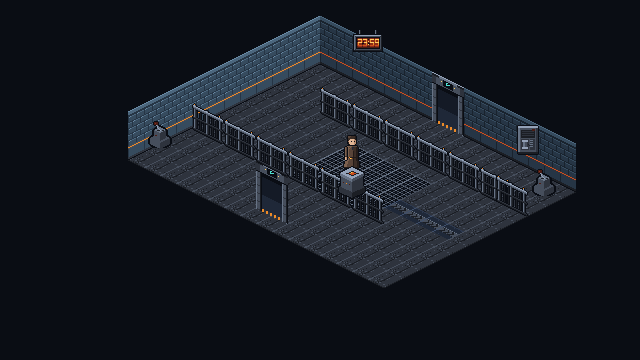
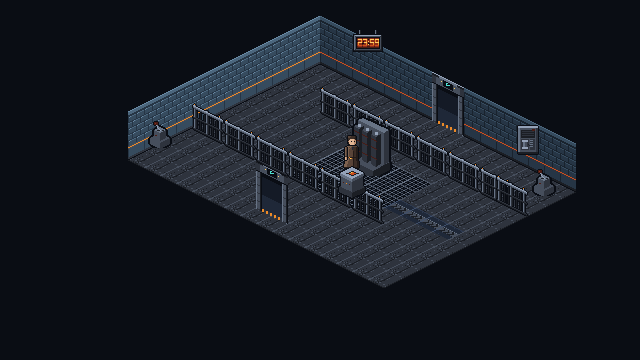
art(TLF-039): Tier 2 partial (turnstile, fire shutter, counterweight gear, surge capacitor, pressure switch), sheet+metadata updated

Changed region(s): [[0.5312, 0.3056, 0.625, 0.4889]]

diff --git a/design/art/ASSET_METADATA.md b/design/art/ASSET_METADATA.md
@@ -231,7 +231,7 @@
 
 ## 3. Batch 2 Summary Inventory Table (`TLF-039`)
 
-**Task:** TLF-039 · **Author:** design-art agent (Claude Code, Sonnet 5.5, standing in for Argon, RISK-019) · **Palette:** `TLF-CH01-32`, `0` off-palette, `0` semi-transparent pixels · **Authoring:** every pixel is placed by a deterministic script using palette indices only, which writes layered `.pxo` files; every `.pxo` passes `Pixelorama.exe --headless --quit -- --size` and `--export --spritesheet`, and each committed PNG is the byte-identical re-export (raw logs in `design/art/TLF-039_VERIFICATION.txt`). **No AI-generated or third-party images.** Elias v2 replaces the batch-1 sheet in place (section 2.1).
+**Task:** TLF-039 · **Author:** design-art agent (Claude Code, Sonnet 5.5, standing in for Argon, RISK-019) · **Palette:** `TLF-CH01-32`, `0` off-palette, `0` semi-transparent pixels · **Authoring:** every pixel is placed by a deterministic script using palette indices only, which writes layered `.pxo` files; every `.pxo` passes `Pixelorama.exe --headless --quit -- --size` and `--export --spritesheet`, and each committed PNG is the byte-identical re-export (raw logs in `design/art/TLF-039_VERIFICATION.txt`). **No AI-generated or third-party images.** Elias v2 replaces the batch-1 sheet in place (section 2.1). Rows 27-38 are Tier 2 hero set-pieces (partial: route board, security gate, bridge, transit car and dispatch terminal are still open).
 
 | # | Asset ID | Category | Source `.pxo` (`assets/source/ch01/`) | Runtime Export (`res://assets/...`) | Canvas Size (`W×H px`) | Frames / FPS | Pivot `(px_x, px_y)` | Sorting / `z_index` | Palette Colors Used | QA State |
 |---|---|---|---|---|---|---|---|---|---|---|
@@ -250,6 +250,18 @@
 | **24** | `ch01.prop.lever_switch.off` | Prop (Fixture) | `ch01_prop_lever_switch_off.pxo` | `assets/props/ch01/ch01_prop_lever_switch_off.png` | `24 × 32 px` | `1f` (`static`) | `(12, 28)` | `Wall_Fixtures` (`z_index = 7`), see OQ-2 | `8 / 32` | **`exported`** |
 | **25** | `ch01.prop.lever_switch.on` | Prop (Fixture) | `ch01_prop_lever_switch_on.pxo` | `assets/props/ch01/ch01_prop_lever_switch_on.png` | `24 × 32 px` | `1f` (`static`) | `(12, 28)` | `Wall_Fixtures` (`z_index = 7`), see OQ-2 | `9 / 32` | **`exported`** |
 | **26** | `ch01.prop.document_clipboard` | Prop (Floor Pickup) | `ch01_prop_document_clipboard_idle.pxo` | `assets/props/ch01/ch01_prop_document_clipboard_idle.png` | `16 × 16 px` | `1f` (`static`) | `(8, 12)` | `YSort_Props` (`z_index = 8`) | `8 / 32` | **`exported`** |
+| **27** | `ch01.prop.turnstile_gate_collapsed` | Prop (Medium Floor Prop) | `ch01_prop_turnstile_gate_collapsed.pxo` | `assets/props/ch01/ch01_prop_turnstile_gate_collapsed.png` | `32 × 40 px` | `1f` (`static`) | `(16, 34)` | `YSort_Actors` (`z_index = 10`) | `8 / 32` | **`exported`** |
+| **28** | `ch01.prop.turnstile_gate_open` | Prop (Medium Floor Prop) | `ch01_prop_turnstile_gate_open.pxo` | `assets/props/ch01/ch01_prop_turnstile_gate_open.png` | `32 × 40 px` | `1f` (`static`) | `(16, 34)` | `YSort_Actors` (`z_index = 10`) | `8 / 32` | **`exported`** |
+| **29** | `ch01.prop.fire_shutter_closed` | Prop (Large Hero Mechanism) | `ch01_prop_fire_shutter_closed.pxo` | `assets/props/ch01/ch01_prop_fire_shutter_closed.png` | `64 × 64 px` | `1f` (`static`) | `(32, 56)` | `YSort_Actors` (`z_index = 10`) | `8 / 32` | **`exported`** |
+| **30** | `ch01.prop.fire_shutter_raised` | Prop (Large Hero Mechanism) | `ch01_prop_fire_shutter_raised.pxo` | `assets/props/ch01/ch01_prop_fire_shutter_raised.png` | `64 × 64 px` | `1f` (`static`) | `(32, 56)` | `YSort_Actors` (`z_index = 10`) | `7 / 32` | **`exported`** |
+| **31** | `ch01.prop.counterweight_gear_idle` | Prop (Large Hero Mechanism) | `ch01_prop_counterweight_gear_idle.pxo` | `assets/props/ch01/ch01_prop_counterweight_gear_idle.png` | `64 × 64 px` | `1f` (`static`) | `(32, 56)` | `YSort_Actors` (`z_index = 10`) | `6 / 32` | **`exported`** |
+| **32** | `ch01.prop.counterweight_gear_slipping` | Prop (Large Hero Mechanism) | `ch01_prop_counterweight_gear_slipping.pxo` | `assets/props/ch01/ch01_prop_counterweight_gear_slipping.png` | `64 × 64 px` | `1f` (`static`) | `(32, 56)` | `YSort_Actors` (`z_index = 10`) | `9 / 32` | **`exported`** |
+| **33** | `ch01.prop.counterweight_gear_frozen` | Prop (Large Hero Mechanism) | `ch01_prop_counterweight_gear_frozen.pxo` | `assets/props/ch01/ch01_prop_counterweight_gear_frozen.png` | `64 × 64 px` | `1f` (`static`) | `(32, 56)` | `YSort_Actors` (`z_index = 10`) | `8 / 32` | **`exported`** |
+| **34** | `ch01.prop.surge_capacitor_discharged` | Prop (Large Hero Mechanism) | `ch01_prop_surge_capacitor_discharged.pxo` | `assets/props/ch01/ch01_prop_surge_capacitor_discharged.png` | `64 × 64 px` | `1f` (`static`) | `(32, 56)` | `YSort_Actors` (`z_index = 10`) | `7 / 32` | **`exported`** |
+| **35** | `ch01.prop.surge_capacitor_charged` | Prop (Large Hero Mechanism) | `ch01_prop_surge_capacitor_charged.pxo` | `assets/props/ch01/ch01_prop_surge_capacitor_charged.png` | `64 × 64 px` | `1f` (`static`) | `(32, 56)` | `YSort_Actors` (`z_index = 10`) | `9 / 32` | **`exported`** |
+| **36** | `ch01.prop.surge_capacitor_frozen` | Prop (Large Hero Mechanism) | `ch01_prop_surge_capacitor_frozen.pxo` | `assets/props/ch01/ch01_prop_surge_capacitor_frozen.png` | `64 × 64 px` | `1f` (`static`) | `(32, 56)` | `YSort_Actors` (`z_index = 10`) | `8 / 32` | **`exported`** |
+| **37** | `ch01.prop.pressure_switch_released` | Prop (Floor Plate) | `ch01_prop_pressure_switch_released.pxo` | `assets/props/ch01/ch01_prop_pressure_switch_released.png` | `32 × 20 px` | `1f` (`static`) | `(16, 12)` | `YSort_Props` (`z_index = 8`) | `5 / 32` | **`exported`** |
+| **38** | `ch01.prop.pressure_switch_pressed` | Prop (Floor Plate) | `ch01_prop_pressure_switch_pressed.pxo` | `assets/props/ch01/ch01_prop_pressure_switch_pressed.png` | `32 × 20 px` | `1f` (`static`) | `(16, 12)` | `YSort_Props` (`z_index = 8`) | `7 / 32` | **`exported`** |
 
 ---
 
@@ -347,6 +359,78 @@ Common to all entries: **License / Attribution:** original production art by the
 - **Frames / FPS / tags:** `1` frame, static, no tags · **Palette:** `TLF-CH01-32`, indices `00,11,12,13,14,15,25,31`
 - **Source / export:** `assets/source/ch01/ch01_prop_document_clipboard_idle.pxo` → `assets/props/ch01/ch01_prop_document_clipboard_idle.png`
 
+### `ch01.prop.turnstile_gate_collapsed`
+- **Filename:** `ch01_prop_turnstile_gate_collapsed.pxo` / `ch01_prop_turnstile_gate_collapsed.png` · **Category / use:** Prop (Medium Floor Prop) · Room 2 `turnstile_gate`, arm snapped, lamp dead (Tier 2)
+- **Pixel dimensions:** `32 × 40 px` (`1.0×`) · **Pivot / sorting:** `(16, 34)` · `YSort_Actors` (`z_index = 10`)
+- **Frames / FPS / tags:** `1` frame, static, no tags · **Palette:** `TLF-CH01-32`, indices `00,11,12,13,14,15,22,24`
+- **Source / export:** `assets/source/ch01/ch01_prop_turnstile_gate_collapsed.pxo` → `assets/props/ch01/ch01_prop_turnstile_gate_collapsed.png`
+
+### `ch01.prop.turnstile_gate_open`
+- **Filename:** `ch01_prop_turnstile_gate_open.pxo` / `ch01_prop_turnstile_gate_open.png` · **Category / use:** Prop (Medium Floor Prop) · arm folded up, lamp lit (Tier 2)
+- **Pixel dimensions:** `32 × 40 px` (`1.0×`) · **Pivot / sorting:** `(16, 34)` · `YSort_Actors` (`z_index = 10`)
+- **Frames / FPS / tags:** `1` frame, static, no tags · **Palette:** `TLF-CH01-32`, indices `00,11,12,13,14,15,25,26`
+- **Source / export:** `assets/source/ch01/ch01_prop_turnstile_gate_open.pxo` → `assets/props/ch01/ch01_prop_turnstile_gate_open.png`
+
+### `ch01.prop.fire_shutter_closed`
+- **Filename:** `ch01_prop_fire_shutter_closed.pxo` / `ch01_prop_fire_shutter_closed.png` · **Category / use:** Prop (Large Hero Mechanism) · Room 3 `fire_shutter`; spans 2 tiles on the +x axis; slats down (Tier 2)
+- **Pixel dimensions:** `64 × 64 px` (`1.0×`) · **Pivot / sorting:** `(32, 56)` · `YSort_Actors` (`z_index = 10`)
+- **Frames / FPS / tags:** `1` frame, static, no tags · **Palette:** `TLF-CH01-32`, indices `00,11,12,13,14,15,24,25`
+- **Source / export:** `assets/source/ch01/ch01_prop_fire_shutter_closed.pxo` → `assets/props/ch01/ch01_prop_fire_shutter_closed.png`
+
+### `ch01.prop.fire_shutter_raised`
+- **Filename:** `ch01_prop_fire_shutter_raised.pxo` / `ch01_prop_fire_shutter_raised.png` · **Category / use:** Prop (Large Hero Mechanism) · slats rolled into the housing, opening clear (Tier 2)
+- **Pixel dimensions:** `64 × 64 px` (`1.0×`) · **Pivot / sorting:** `(32, 56)` · `YSort_Actors` (`z_index = 10`)
+- **Frames / FPS / tags:** `1` frame, static, no tags · **Palette:** `TLF-CH01-32`, indices `00,11,12,13,14,15,24`
+- **Source / export:** `assets/source/ch01/ch01_prop_fire_shutter_raised.pxo` → `assets/props/ch01/ch01_prop_fire_shutter_raised.png`
+
+### `ch01.prop.counterweight_gear_idle`
+- **Filename:** `ch01_prop_counterweight_gear_idle.pxo` / `ch01_prop_counterweight_gear_idle.png` · **Category / use:** Prop (Large Hero Mechanism) · Room 3 `counterweight_gear` (Tier 2)
+- **Pixel dimensions:** `64 × 64 px` (`1.0×`) · **Pivot / sorting:** `(32, 56)` · `YSort_Actors` (`z_index = 10`)
+- **Frames / FPS / tags:** `1` frame, static, no tags · **Palette:** `TLF-CH01-32`, indices `00,11,12,13,14,15`
+- **Source / export:** `assets/source/ch01/ch01_prop_counterweight_gear_idle.pxo` → `assets/props/ch01/ch01_prop_counterweight_gear_idle.png`
+
+### `ch01.prop.counterweight_gear_slipping`
+- **Filename:** `ch01_prop_counterweight_gear_slipping.pxo` / `ch01_prop_counterweight_gear_slipping.png` · **Category / use:** Prop (Large Hero Mechanism) · weight lowered 6 px, sparks + slip marks (Tier 2)
+- **Pixel dimensions:** `64 × 64 px` (`1.0×`) · **Pivot / sorting:** `(32, 56)` · `YSort_Actors` (`z_index = 10`)
+- **Frames / FPS / tags:** `1` frame, static, no tags · **Palette:** `TLF-CH01-32`, indices `00,11,12,13,14,15,24,25,26`
+- **Source / export:** `assets/source/ch01/ch01_prop_counterweight_gear_slipping.pxo` → `assets/props/ch01/ch01_prop_counterweight_gear_slipping.png`
+
+### `ch01.prop.counterweight_gear_frozen`
+- **Filename:** `ch01_prop_counterweight_gear_frozen.pxo` / `ch01_prop_counterweight_gear_frozen.png` · **Category / use:** Prop (Large Hero Mechanism) · Freeze language: 2 px corner L-brackets + teal dashes, no motion (Tier 2)
+- **Pixel dimensions:** `64 × 64 px` (`1.0×`) · **Pivot / sorting:** `(32, 56)` · `YSort_Actors` (`z_index = 10`)
+- **Frames / FPS / tags:** `1` frame, static, no tags · **Palette:** `TLF-CH01-32`, indices `00,11,12,13,14,15,27,31`
+- **Source / export:** `assets/source/ch01/ch01_prop_counterweight_gear_frozen.pxo` → `assets/props/ch01/ch01_prop_counterweight_gear_frozen.png`
+
+### `ch01.prop.surge_capacitor_discharged`
+- **Filename:** `ch01_prop_surge_capacitor_discharged.pxo` / `ch01_prop_surge_capacitor_discharged.png` · **Category / use:** Prop (Large Hero Mechanism) · Room 6 `surge_capacitor` (Tier 2)
+- **Pixel dimensions:** `64 × 64 px` (`1.0×`) · **Pivot / sorting:** `(32, 56)` · `YSort_Actors` (`z_index = 10`)
+- **Frames / FPS / tags:** `1` frame, static, no tags · **Palette:** `TLF-CH01-32`, indices `00,11,12,13,14,15,22`
+- **Source / export:** `assets/source/ch01/ch01_prop_surge_capacitor_discharged.pxo` → `assets/props/ch01/ch01_prop_surge_capacitor_discharged.png`
+
+### `ch01.prop.surge_capacitor_charged`
+- **Filename:** `ch01_prop_surge_capacitor_charged.pxo` / `ch01_prop_surge_capacitor_charged.png` · **Category / use:** Prop (Large Hero Mechanism) · lit bands + jagged arc between terminals (shape cue) (Tier 2)
+- **Pixel dimensions:** `64 × 64 px` (`1.0×`) · **Pivot / sorting:** `(32, 56)` · `YSort_Actors` (`z_index = 10`)
+- **Frames / FPS / tags:** `1` frame, static, no tags · **Palette:** `TLF-CH01-32`, indices `00,11,12,13,14,15,25,26,31`
+- **Source / export:** `assets/source/ch01/ch01_prop_surge_capacitor_charged.pxo` → `assets/props/ch01/ch01_prop_surge_capacitor_charged.png`
+
+### `ch01.prop.surge_capacitor_frozen`
+- **Filename:** `ch01_prop_surge_capacitor_frozen.pxo` / `ch01_prop_surge_capacitor_frozen.png` · **Category / use:** Prop (Large Hero Mechanism) · Freeze language (Tier 2)
+- **Pixel dimensions:** `64 × 64 px` (`1.0×`) · **Pivot / sorting:** `(32, 56)` · `YSort_Actors` (`z_index = 10`)
+- **Frames / FPS / tags:** `1` frame, static, no tags · **Palette:** `TLF-CH01-32`, indices `00,11,12,13,14,15,27,31`
+- **Source / export:** `assets/source/ch01/ch01_prop_surge_capacitor_frozen.pxo` → `assets/props/ch01/ch01_prop_surge_capacitor_frozen.png`
+
+### `ch01.prop.pressure_switch_released`
+- **Filename:** `ch01_prop_pressure_switch_released.pxo` / `ch01_prop_pressure_switch_released.png` · **Category / use:** Prop (Floor Plate) · Room 4 `pressure_switch_01`; raised plate, dead lamp (Tier 2)
+- **Pixel dimensions:** `32 × 20 px` (`1.0×`) · **Pivot / sorting:** `(16, 12)` · `YSort_Props` (`z_index = 8`)
+- **Frames / FPS / tags:** `1` frame, static, no tags · **Palette:** `TLF-CH01-32`, indices `00,12,13,14,22`
+- **Source / export:** `assets/source/ch01/ch01_prop_pressure_switch_released.pxo` → `assets/props/ch01/ch01_prop_pressure_switch_released.png`
+
+### `ch01.prop.pressure_switch_pressed`
+- **Filename:** `ch01_prop_pressure_switch_pressed.pxo` / `ch01_prop_pressure_switch_pressed.png` · **Category / use:** Prop (Floor Plate) · flush plate, lit amber ring (Tier 2)
+- **Pixel dimensions:** `32 × 20 px` (`1.0×`) · **Pivot / sorting:** `(16, 12)` · `YSort_Props` (`z_index = 8`)
+- **Frames / FPS / tags:** `1` frame, static, no tags · **Palette:** `TLF-CH01-32`, indices `00,11,12,13,24,25,26`
+- **Source / export:** `assets/source/ch01/ch01_prop_pressure_switch_pressed.pxo` → `assets/props/ch01/ch01_prop_pressure_switch_pressed.png`
+
 ### 4.1 Archway reconciliation (`archway_frame_e` vs `ROOM_GRAPH.md` §7.1)
 `ROOM_GRAPH` §7.1 names `wall_archway_frame_n` and `wall_archway_frame_w`; batch 1 shipped one file named `archway_frame_e`. Geometry decides the mapping, not the compass letter: E and W boundary edges both run *down-left* on screen, N and S edges both run *down-right* (`px_x = 320 + (x-y)*16`). So:
 
@@ -360,7 +444,7 @@ Common to all entries: **License / Attribution:** original production art by the
 ### 4.2 `flip_h` rule for axis-run assets
 `wall_railing_iron`, `prop_station_bench` and `tile_cable_conduit_*` are authored along the down-right (+x) axis. For the down-left (+y) axis set `flip_h = true`; the baked top-left light then falls on the screen-right side, the same compromise the bible accepts for Elias (§2.3 #4).
 
-### 4.3 Room mockups (`concept`, `640 × 360 px`, kit pieces only; not runtime assets)
+### 4.3 Room mockups (`concept`, `640 × 360 px`; kit + Tier 2 pieces, not runtime assets)
 
 | # | Mockup | File | Canvas Size | QA State |
 |---|---|---|---|---|
@@ -368,4 +452,4 @@ Common to all entries: **License / Attribution:** original production art by the
 | M2 | `ch01.concourse_west` | `design/art/mockups/ch01_concourse_west_mockup.png` | `640 × 360 px` | **`concept`** |
 | M3 | `ch01.signal_control` | `design/art/mockups/ch01_signal_control_mockup.png` | `640 × 360 px` | **`concept`** |
 
-Composited by script from the committed kit PNGs at the positions in `CH01_PLACEMENT_SHEET.md` (palette `TLF-CH01-32` only, background `#0A0D14`, Elias `idle_se` frame 2 at the safe anchor). No `.pxo` (derived images; regenerate from the sheet data).
+Composited by script from the committed PNGs at the positions in `CH01_PLACEMENT_SHEET.md` (palette `TLF-CH01-32` only, background `#0A0D14`, Elias `idle_se` frame 2 at the safe anchor; Tier 2 pieces shown in their default state). No `.pxo` (derived images).

diff --git a/design/art/CH01_PLACEMENT_SHEET.md b/design/art/CH01_PLACEMENT_SHEET.md
@@ -2,7 +2,7 @@
 
 **Author:** design-art agent (Claude Code, Sonnet 5.5, standing in for Argon) · **Audience:** Flash (integration task, `TLF-018`/follow-up) · **Inputs:** `design/ch01/ROOM_GRAPH.md` §1/§5/§7, `design/art/ART_BIBLE.md`, `design/art/ASSET_METADATA.md`, and the greybox `scenes/chapters/ch01/rooms/*.tscn` (read-only; every node position below is copied from those files by script, not typed).
 
-**Scope of this sheet:** every Tier 1 kit piece (shipped in this batch) is placed room by room. Tier 2 hero set-pieces are listed with their planned file names so this sheet does not need to change when they land (§12). Pieces marked *(decor)* are optional dressing with no `.tscn` node yet.
+**Scope of this sheet:** every Tier 1 kit piece (shipped in this batch) is placed room by room. Five Tier 2 hero set-pieces are also placed (§12); the rest keep the greybox until TLF-040. Pieces marked *(decor)* are optional dressing with no `.tscn` node yet.
 
 Mockups (`640×360`, true scale, kit pieces only): `design/art/mockups/ch01_arrival_platform_mockup.png` (validation against the approved target sheet), `ch01_concourse_west_mockup.png`, `ch01_signal_control_mockup.png`.
 
@@ -133,7 +133,7 @@ Footprint 16×12 tiles · apex `(320, 64)` · scene `scenes/chapters/ch01/rooms/
 ### 2.4 Props, fixtures and state mapping
 | Object ID | Sprite (file) | State → sprite state | Pivot position | Layer / `z` | Replaces greybox | Note |
 |---|---|---|---|---|---|---|
-| `ch01.concourse_west.turnstile_gate` | *(none in this batch)* | collapsed / open | `(272, 120)` | - | none | Tier 2 `prop_turnstile_gate`; replaces nothing visual (Area2D + `Blocker`); sprite child at (0,0) |
+| `ch01.concourse_west.turnstile_gate` | `ch01_prop_turnstile_gate_collapsed.png` / `ch01_prop_turnstile_gate_open.png` | collapsed / open | `(272, 120)` ((2, 5)) | YSort_Actors / 10 | none | `prop_turnstile_gate` (Tier 2, delivered); pedestal footprint centred on the node; Area2D + `Blocker` stay |
 | `ch01.concourse_west.support_pillar_01` | `ch01_env_wall_corner_pillar_idle.png` | idle | `(384, 184)` (node `(384, 176)` + `(0, 8)`) | YSort_Walls / 5 | none (collision already in `PillarCollision`) | free-standing column; **sprite pivot = node position + (0, 8)** so the 0.75-tile footprint centres on the cell |
 | `ch01.concourse_west.reset_anchor_01` | `ch01_prop_reset_console_idle.png` | idle | `(256, 144)` ((3, 7)) | YSort_Actors / 10 | none | sole state; the `[E]` prompt provides feedback |
 | `ch01.concourse_west.call_box_09` | `ch01_prop_call_box_phone_idle.png` (+ `_ringing`) | idle -> ringing during Beat 03 call | `(272, 74)` (mount; node stays `(272, 96)`) | Wall_Fixtures / 7 | none | wall fixture on the W wall: module `j = 1` (y 2..3), mount offset (0, -14) |
@@ -164,8 +164,8 @@ Footprint 14×10 tiles · apex `(320, 64)` · scene `scenes/chapters/ch01/rooms/
 ### 3.4 Props, fixtures and state mapping
 | Object ID | Sprite (file) | State → sprite state | Pivot position | Layer / `z` | Replaces greybox | Note |
 |---|---|---|---|---|---|---|
-| `ch01.maintenance_bay.fire_shutter` | *(none in this batch)* | closed / raised | `(384, 160)` | - | none | Tier 2 `prop_fire_shutter` (64×64) |
-| `ch01.maintenance_bay.counterweight_gear` | *(none in this batch)* | idle / slipping / frozen | `(384, 112)` | - | none | Tier 2 `prop_counterweight_gear` |
+| `ch01.maintenance_bay.fire_shutter` | `ch01_prop_fire_shutter_closed.png` / `ch01_prop_fire_shutter_raised.png` | closed / raised | `(384, 160)` ((8, 4)) | YSort_Actors / 10 | none | Tier 2 `prop_fire_shutter` (64×64) |
+| `ch01.maintenance_bay.counterweight_gear` | `ch01_prop_counterweight_gear_idle.png` / `ch01_prop_counterweight_gear_slipping.png` / `ch01_prop_counterweight_gear_frozen.png` | idle / slipping / frozen | `(384, 112)` ((5, 1)) | YSort_Actors / 10 | none | Tier 2 `prop_counterweight_gear` |
 | `ch01.maintenance_bay.reset_anchor_01` | `ch01_prop_reset_console_idle.png` | idle | `(288, 144)` ((4, 6)) | YSort_Actors / 10 | none |  |
 | `ch01.maintenance_bay.doc_tech_log` | `ch01_prop_document_clipboard_idle.png` | idle | `(288, 192)` ((7, 9)) | YSort_Props / 8 | none | workbench pickup |
 
@@ -197,7 +197,7 @@ Footprint 16×12 tiles · apex `(320, 64)` · scene `scenes/chapters/ch01/rooms/
 ### 4.4 Props, fixtures and state mapping
 | Object ID | Sprite (file) | State → sprite state | Pivot position | Layer / `z` | Replaces greybox | Note |
 |---|---|---|---|---|---|---|
-| `ch01.security_crossing.pressure_switch_01` | *(none in this batch)* | released / pressed | `(256, 176)` | - | none | Tier 2 `prop_pressure_switch` |
+| `ch01.security_crossing.pressure_switch_01` | `ch01_prop_pressure_switch_released.png` / `ch01_prop_pressure_switch_pressed.png` | released / pressed | `(256, 176)` ((5, 9)) | YSort_Props / 8 | none | Tier 2 `prop_pressure_switch` |
 | `ch01.security_crossing.security_gate_01` | *(none in this batch)* | closed / open | `(416, 176)` | - | none | Tier 2 `prop_security_gate` |
 | `ch01.security_crossing.bridge_platform_01` | *(none in this batch)* | retracted / extended | `(368, 184)` | - | `TrenchVisual` stays as the void backing | Tier 2 `prop_bridge_platform`; spans trench tile `(9,6)` |
 | `ch01.security_crossing.transit_pass_pickup` | `ch01_prop_document_clipboard_idle.png` | idle | `(336, 104)` ((3, 2)) | YSort_Props / 8 | none | security desk pickup (progression) |
@@ -258,7 +258,7 @@ Footprint 16×12 tiles · apex `(320, 64)` · scene `scenes/chapters/ch01/rooms/
 ### 6.4 Props, fixtures and state mapping
 | Object ID | Sprite (file) | State → sprite state | Pivot position | Layer / `z` | Replaces greybox | Note |
 |---|---|---|---|---|---|---|
-| `ch01.signal_control.surge_capacitor` | *(none in this batch)* | discharged / charged / frozen | `(368, 168)` | - | none | Tier 2 `prop_surge_capacitor` (64×64) |
+| `ch01.signal_control.surge_capacitor` | `ch01_prop_surge_capacitor_discharged.png` / `ch01_prop_surge_capacitor_charged.png` / `ch01_prop_surge_capacitor_frozen.png` | discharged / charged / frozen | `(368, 168)` ((8, 5)) | YSort_Actors / 10 | none | Tier 2 `prop_surge_capacitor` (64×64) |
 | `ch01.signal_control.breaker_a` | `ch01_prop_lever_switch_off.png` (+ `_on`) | off -> on when pulled | `(160, 144)` ((0, 10)) | Wall_Fixtures / 7 | none | on the SW wall; diegetic badge `A` is a 3×3 px stamp (OQ-3) |
 | `ch01.signal_control.breaker_b` | `ch01_prop_lever_switch_off.png` (+ `_on`) | off -> on when pulled | `(544, 192)` ((15, 1)) | Wall_Fixtures / 7 | none | on the NE wall; badge `B` |
 | `ch01.signal_control.intercom` | `ch01_prop_call_box_phone_idle.png` | idle | `(528, 154)` (mount; node stays `(352, 160)`) | Wall_Fixtures / 7 | none | Operator intercom (shares `prop_call_box_phone`); node sits at the capacitor lane, so the sprite mounts on the N wall, module `k = 6`, offset (0, -14) (OQ-4) |
@@ -386,14 +386,14 @@ Footprint 12×10 tiles · apex `(320, 64)` · scene `scenes/chapters/ch01/rooms/
 
 | Puzzle / object | Source state (`TemporalComponent` / puzzle script) | Sprite file / state | Fallback if sprite missing |
 |---|---|---|---|
-| `turnstile_gate` (PZ-001) | `arm_state = collapsed`, `passage_blocked = true` → `open`, `false` (latched at SOLVED, ADR-016) | `prop_turnstile_gate_collapsed` → `_open` (Tier 2) | greybox |
-| `fire_shutter` (PZ-002) | closed → raised (latched open at SOLVED) | `prop_fire_shutter_closed` → `_raised` (Tier 2) | greybox |
-| `counterweight_gear` (PZ-002) | idle → slipping (while shutter falls) → frozen (`is_frozen = true`) | `prop_counterweight_gear_idle / _slipping / _frozen` (Tier 2) | greybox |
+| `turnstile_gate` (PZ-001) | `arm_state = collapsed`, `passage_blocked = true` → `open`, `false` (latched at SOLVED, ADR-016) | `prop_turnstile_gate_collapsed` → `_open` | greybox |
+| `fire_shutter` (PZ-002) | closed → raised (latched open at SOLVED) | `prop_fire_shutter_closed` → `_raised` | greybox |
+| `counterweight_gear` (PZ-002) | idle → slipping (while shutter falls) → frozen (`is_frozen = true`) | `prop_counterweight_gear_idle / _slipping / _frozen` | greybox |
 | `cable_conduit` feed, Room 3 | off until PZ-002 SOLVED | `tile_cable_conduit_off` → `_on` | stay `_off` |
-| `pressure_switch_01` (PZ-003) | released → pressed (Echo holds) | `prop_pressure_switch` (Tier 2, 2 states) | greybox |
+| `pressure_switch_01` (PZ-003) | released → pressed (Echo holds) | `prop_pressure_switch_released` → `_pressed` | greybox |
 | `security_gate_01`, `bridge_platform_01` (PZ-003) | closed/retracted → open/extended (latched at SOLVED) | `prop_security_gate`, `prop_bridge_platform` (Tier 2) | greybox |
 | `cable_conduit` feed, Room 4 | off → on while the switch is occupied / PZ-003 latched | `tile_cable_conduit_off` → `_on` | stay `_off` |
-| `surge_capacitor` (PZ-004 step 1) | discharged → charged (`bus_powered = true`); `is_frozen` overlays frozen | `prop_surge_capacitor_discharged / _charged / _frozen` (Tier 2) | greybox |
+| `surge_capacitor` (PZ-004 step 1) | discharged → charged (`bus_powered = true`); `is_frozen` overlays frozen | `prop_surge_capacitor_discharged / _charged / _frozen` | greybox |
 | `cable_conduit` feed, Room 6 | off → on when `bus_powered = true` | `tile_cable_conduit_off` → `_on` | stay `_off` |
 | `breaker_a`, `breaker_b` (PZ-004 step 2) | not pulled → pulled / held | `prop_lever_switch_off` → `_on` | `_off` only |
 | `vestibule_door` (PZ-004) | locked → open (latched) | `archway_frame_n` + `DoorwayPresenter` glyph `[■]` → `[▲]` | n/a |
@@ -407,9 +407,11 @@ Footprint 12×10 tiles · apex `(320, 64)` · scene `scenes/chapters/ch01/rooms/
 
 ---
 
-## 12. Tier 2 hero set-pieces (planned names, not in this batch unless the handoff says so)
+## 12. Tier 2 hero set-pieces
 
-Sizes/pivots per bible §1.3: `prop_turnstile_gate` 32×40 (pivot `(16,34)`, `YSort_Actors` 10), `prop_fire_shutter` 64×64 (`(32,56)`), `prop_counterweight_gear` and `prop_surge_capacitor` 64×64 (`(32,56)`), `prop_route_board` (state 0/1/2), `prop_pressure_switch`, `prop_security_gate`, `prop_bridge_platform`, `prop_transit_car_stalled` 128×80 (`(64,72)`), `prop_dispatch_terminal` 64×64 (`(32,56)`). File naming `ch01_prop_<name>_<state>.png`. Each is placed at its object node's `position` (pivot = node position), `YSort_Actors` 10, replacing nothing visual.
+**Delivered in this batch (12 files, all in `assets/props/ch01/`, pivot = the object node's `position`, hero pieces `YSort_Actors` 10, pressure switch `YSort_Props` 8):** `prop_turnstile_gate_collapsed|open` (32×40, pivot `(16,34)`), `prop_fire_shutter_closed|raised` (64×64, `(32,56)`, spans two tiles along the `+x` axis; use `flip_h` for a `y`-axis lane), `prop_counterweight_gear_idle|slipping|frozen` (64×64, `(32,56)`), `prop_surge_capacitor_discharged|charged|frozen` (64×64, `(32,56)`), `prop_pressure_switch_released|pressed` (32×20, `(16,12)`). State → file mapping is in §11.
+
+**Not delivered (open for TLF-040):** `prop_route_board` (state 0/1/2), `prop_security_gate`, `prop_bridge_platform`, `prop_transit_car_stalled` (128×80, `(64,72)`), `prop_dispatch_terminal` (64×64, `(32,56)`). Planned names `ch01_prop_<name>_<state>.png`; until they exist keep the greybox for those nodes (listed as *(none in this batch)* in the room tables).
 
 ---
 
